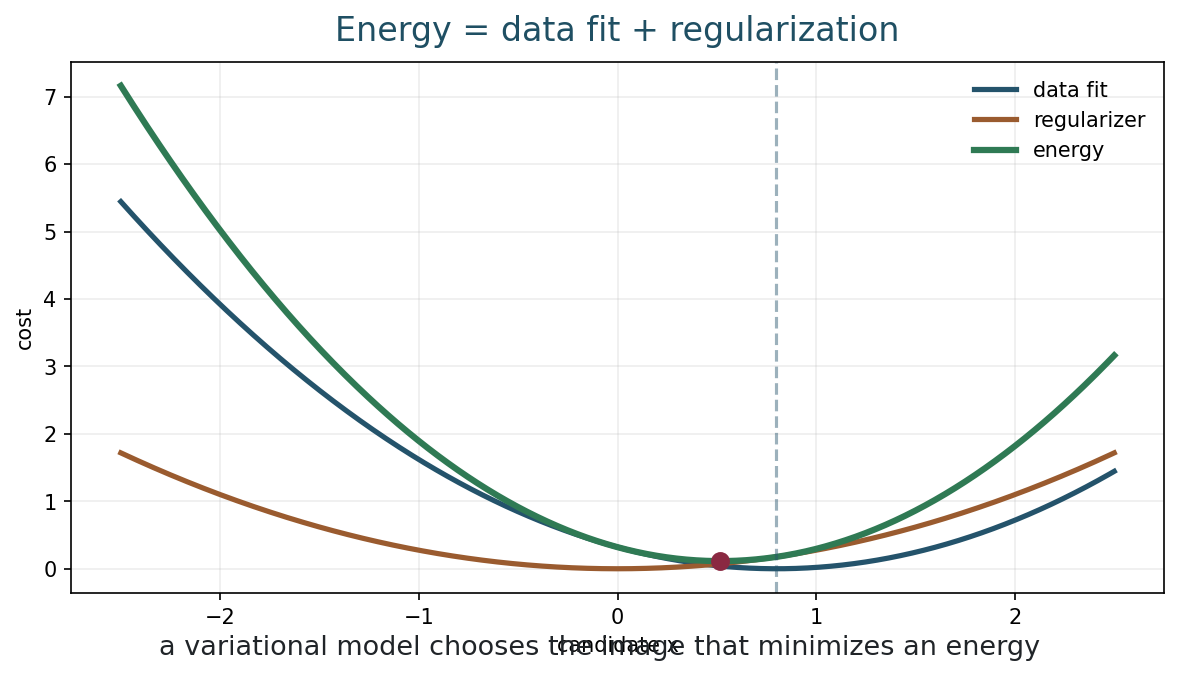
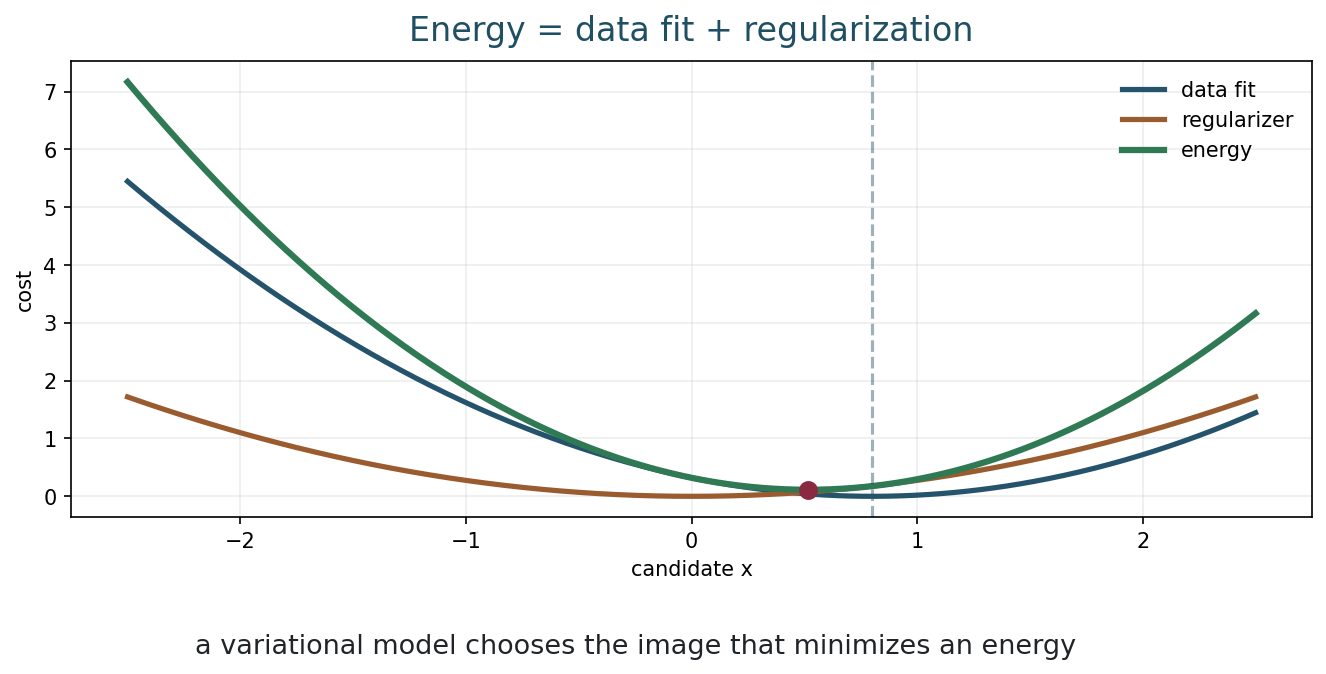
Built site for gh-pages

diff --git a/slides/week-01-image-formation.html b/slides/week-01-image-formation.html
@@ -439,7 +439,7 @@ x \mapsto Ax.
 </section>
 <section id="first-numpy-representation" class="slide level2 code-small">
 <h2>First NumPy Representation</h2>
-<div id="30004734" class="cell">
+<div id="22eb4e40" class="cell">
 <div class="code-copy-outer-scaffold"><div class="sourceCode cell-code" id="cb2"><pre class="sourceCode numberSource python number-lines code-with-copy"><code class="sourceCode python"><span id="cb2-1"><a></a><span class="im">import</span> numpy <span class="im">as</span> np</span>
 <span id="cb2-2"><a></a></span>
 <span id="cb2-3"><a></a>m, n <span class="op">=</span> <span class="dv">4</span>, <span class="dv">5</span></span>
@@ -458,7 +458,7 @@ x \mapsto Ax.
 <section id="vectorization-convention" class="slide level2">
 <h2>Vectorization Convention</h2>
 <p>NumPy uses row-major order by default:</p>
-<div id="b974e381" class="cell">
+<div id="c27cc574" class="cell">
 <div class="code-copy-outer-scaffold"><div class="sourceCode cell-code" id="cb3"><pre class="sourceCode numberSource python number-lines code-with-copy"><code class="sourceCode python"><span id="cb3-1"><a></a>U <span class="op">=</span> np.array([[<span class="dv">1</span>, <span class="dv">2</span>, <span class="dv">3</span>],</span>
 <span id="cb3-2"><a></a>              [<span class="dv">4</span>, <span class="dv">5</span>, <span class="dv">6</span>]])</span>
 <span id="cb3-3"><a></a></span>
@@ -686,7 +686,7 @@ x = A^{-1}y.
 <section id="a-toy-masking-operator" class="slide level2">
 <h2>A Toy Masking Operator</h2>
 <p>Suppose a fixed set of pixels is measured.</p>
-<div id="15cc2698" class="cell">
+<div id="ebde42ff" class="cell">
 <div class="code-copy-outer-scaffold"><div class="sourceCode cell-code" id="cb4"><pre class="sourceCode numberSource python number-lines code-with-copy"><code class="sourceCode python"><span id="cb4-1"><a></a><span class="im">import</span> numpy <span class="im">as</span> np</span>
 <span id="cb4-2"><a></a></span>
 <span id="cb4-3"><a></a>x <span class="op">=</span> np.linspace(<span class="dv">0</span>, <span class="dv">1</span>, <span class="dv">12</span>)</span>
@@ -761,7 +761,7 @@ x.
 </section>
 <section id="python-demo-masking-a-real-image" class="slide level2 code-small">
 <h2>Python Demo: Masking a Real Image</h2>
-<div id="cd727e5b" class="cell">
+<div id="882bf567" class="cell">
 <div class="code-copy-outer-scaffold"><div class="sourceCode cell-code" id="cb5"><pre class="sourceCode numberSource python number-lines code-with-copy"><code class="sourceCode python"><span id="cb5-1"><a></a><span class="im">from</span> skimage <span class="im">import</span> data</span>
 <span id="cb5-2"><a></a><span class="im">import</span> numpy <span class="im">as</span> np</span>
 <span id="cb5-3"><a></a></span>

diff --git a/slides/week-03-fourier-imaging.html b/slides/week-03-fourier-imaging.html
@@ -429,7 +429,7 @@ x[n] = \sin(2\pi 5n/N) + 0.5\sin(2\pi 20n/N).
 <section id="what-fft-returns" class="slide level2">
 <h2>What FFT Returns</h2>
 <div class="code-small">
-<div id="7b32b332" class="cell">
+<div id="88b08403" class="cell">
 <div class="code-copy-outer-scaffold"><div class="sourceCode cell-code" id="cb1"><pre class="sourceCode numberSource python number-lines code-with-copy"><code class="sourceCode python"><span id="cb1-1"><a></a><span class="im">import</span> numpy <span class="im">as</span> np</span>
 <span id="cb1-2"><a></a></span>
 <span id="cb1-3"><a></a>spectrum <span class="op">=</span> np.fft.fft(signal)</span>
@@ -468,7 +468,7 @@ x[n] = \sin(2\pi 5n/N) + 0.5\sin(2\pi 20n/N).
 <p>Most software places the zero frequency at the corner.</p>
 <p>For visualization, we often use:</p>
 <div class="code-small">
-<div id="af13a520" class="cell">
+<div id="36540fb4" class="cell">
 <div class="code-copy-outer-scaffold"><div class="sourceCode cell-code" id="cb2"><pre class="sourceCode numberSource python number-lines code-with-copy"><code class="sourceCode python"><span id="cb2-1"><a></a>F <span class="op">=</span> np.fft.fft2(image)</span>
 <span id="cb2-2"><a></a>F_centered <span class="op">=</span> np.fft.fftshift(F)</span>
 <span id="cb2-3"><a></a>log_magnitude <span class="op">=</span> np.log1p(np.<span class="bu">abs</span>(F_centered))</span></code></pre></div><button title="Copy to Clipboard" class="code-copy-button"><i class="bi"></i></button></div>
@@ -538,7 +538,7 @@ x[n] = \sin(2\pi 5n/N) + 0.5\sin(2\pi 20n/N).
 </section>
 <section id="python-demo-spectrum-of-an-image" class="slide level2 code-small">
 <h2>Python Demo: Spectrum of an Image</h2>
-<div id="4b0fe811" class="cell">
+<div id="e073d579" class="cell">
 <div class="code-copy-outer-scaffold"><div class="sourceCode cell-code" id="cb3"><pre class="sourceCode numberSource python number-lines code-with-copy"><code class="sourceCode python"><span id="cb3-1"><a></a><span class="im">from</span> skimage <span class="im">import</span> data</span>
 <span id="cb3-2"><a></a><span class="im">import</span> numpy <span class="im">as</span> np</span>
 <span id="cb3-3"><a></a></span>

diff --git a/slides/week-06-tikhonov-regularization.html b/slides/week-06-tikhonov-regularization.html
@@ -486,7 +486,7 @@ x_\lambda
 </section>
 <section id="python-demo-normal-equations" class="slide level2 code-small">
 <h2>Python Demo: Normal Equations</h2>
-<div id="010cb951" class="cell">
+<div id="7903c447" class="cell">
 <div class="code-copy-outer-scaffold"><div class="sourceCode cell-code" id="cb1"><pre class="sourceCode numberSource python number-lines code-with-copy"><code class="sourceCode python"><span id="cb1-1"><a></a>lhs <span class="op">=</span> A.T <span class="op">@</span> A <span class="op">+</span> lam <span class="op">*</span> np.eye(n)</span>
 <span id="cb1-2"><a></a>rhs <span class="op">=</span> A.T <span class="op">@</span> y</span>
 <span id="cb1-3"><a></a>x_lam <span class="op">=</span> np.linalg.solve(lhs, rhs)</span></code></pre></div><button title="Copy to Clipboard" class="code-copy-button"><i class="bi"></i></button></div>

diff --git a/slides/week-02-convolution-blur.html b/slides/week-02-convolution-blur.html
@@ -511,7 +511,7 @@ y = h * x
 </section>
 <section id="python-demo-blur-a-real-image" class="slide level2 code-small">
 <h2>Python Demo: Blur a Real Image</h2>
-<div id="a2ba4d25" class="cell">
+<div id="bc13a134" class="cell">
 <div class="code-copy-outer-scaffold"><div class="sourceCode cell-code" id="cb1"><pre class="sourceCode numberSource python number-lines code-with-copy"><code class="sourceCode python"><span id="cb1-1"><a></a><span class="im">from</span> skimage <span class="im">import</span> data</span>
 <span id="cb1-2"><a></a><span class="im">from</span> scipy <span class="im">import</span> signal</span>
 <span id="cb1-3"><a></a><span class="im">import</span> numpy <span class="im">as</span> np</span>

diff --git a/slides/week-04-noise-likelihood.html b/slides/week-04-noise-likelihood.html
@@ -511,7 +511,7 @@ y = f(x)+\eta,
 </section>
 <section id="python-demo-gaussian-noise" class="slide level2 code-small">
 <h2>Python Demo: Gaussian Noise</h2>
-<div id="c7e51999" class="cell">
+<div id="f6a0b3db" class="cell">
 <div class="code-copy-outer-scaffold"><div class="sourceCode cell-code" id="cb1"><pre class="sourceCode numberSource python number-lines code-with-copy"><code class="sourceCode python"><span id="cb1-1"><a></a><span class="im">import</span> numpy <span class="im">as</span> np</span>
 <span id="cb1-2"><a></a><span class="im">from</span> skimage <span class="im">import</span> data</span>
 <span id="cb1-3"><a></a></span>

diff --git a/examples/make_week07_figures.py b/examples/make_week07_figures.py
@@ -68,7 +68,8 @@ def make_energy_terms(path: Path) -> None:
     regularizer = 0.5 * lam * x**2
     total = data_term + regularizer
 
-    fig, ax = plt.subplots(figsize=(9.4, 4.6), dpi=150)
+    fig, ax = plt.subplots(figsize=(9.4, 4.9), dpi=150)
+    fig.subplots_adjust(left=0.1, right=0.98, top=0.86, bottom=0.24)
     ax.plot(x, data_term, label="data fit", color="#24536b", linewidth=2.5)
     ax.plot(x, regularizer, label="regularizer", color="#9a5b2f", linewidth=2.5)
     ax.plot(x, total, label="energy", color="#2f7a54", linewidth=3.0)
@@ -83,7 +84,7 @@ def make_energy_terms(path: Path) -> None:
     ax.legend(frameon=False)
     fig.text(
         0.5,
-        0.02,
+        0.055,
         "a variational model chooses the image that minimizes an energy",
         ha="center",
         fontsize=13,
@@ -250,7 +251,8 @@ def make_gradient_descent_energy(path: Path) -> None:
         if iteration in [2, 9, 39, 79]:
             snapshots.append(current.copy())
 
-    fig, axes = plt.subplots(1, 2, figsize=(11.4, 4.4), dpi=150)
+    fig, axes = plt.subplots(1, 2, figsize=(11.4, 4.8), dpi=150)
+    fig.subplots_adjust(left=0.08, right=0.98, top=0.84, bottom=0.27, wspace=0.22)
     axes[0].semilogy(energies, color="#24536b", linewidth=2.5)
     axes[0].set_title("energy decreases during descent", fontsize=15, color="#1f4f63", pad=9)
     axes[0].set_xlabel("iteration")
@@ -267,7 +269,7 @@ def make_gradient_descent_energy(path: Path) -> None:
         axes[1].axvline(i * image.shape[1] - 0.5, color="white", linewidth=1.2)
     fig.text(
         0.5,
-        0.015,
+        0.055,
         "gradient descent gives an algorithmic view of variational reconstruction",
         ha="center",
         fontsize=13,
